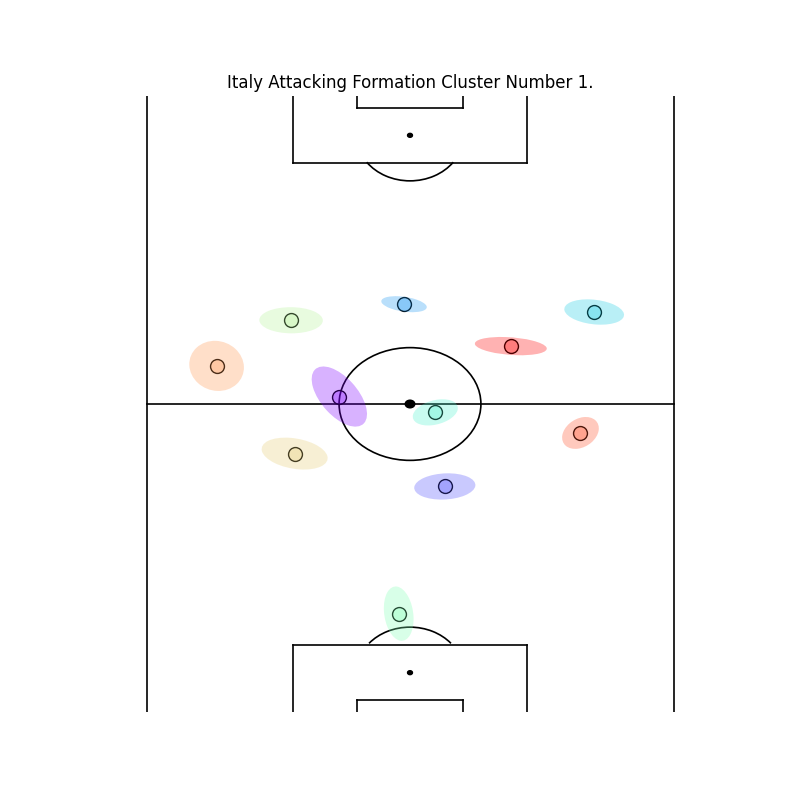
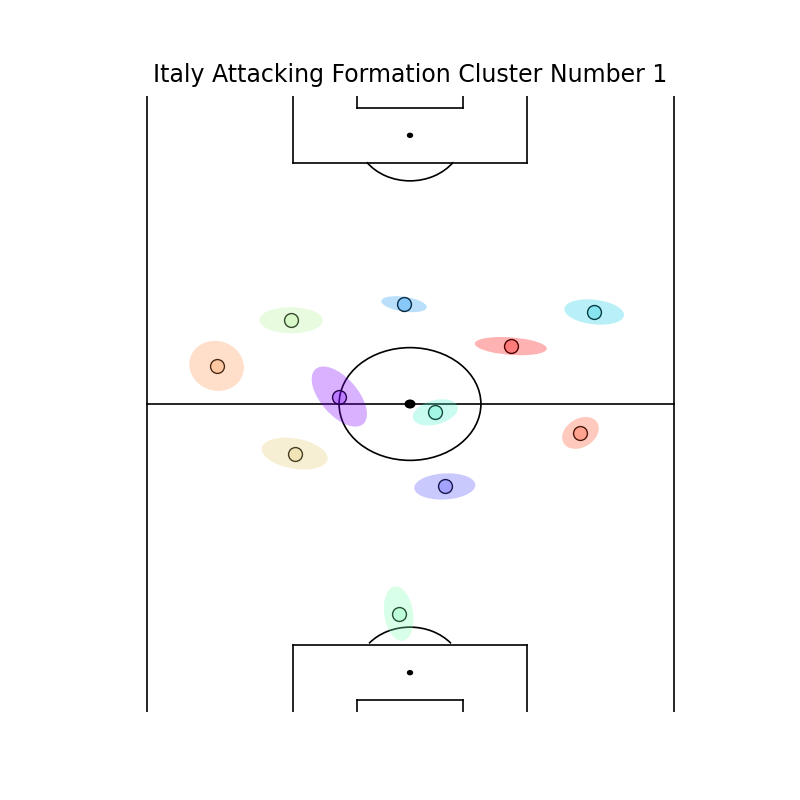
small adjustment to formation clusters

Changed region(s): [[0.1875, 0.0625, 0.8125, 0.125]]

diff --git a/fomation_clusters/main.py b/fomation_clusters/main.py
@@ -128,7 +128,7 @@ if __name__ == '__main__':
             
             for i in range(len(clusters_idx[cluster_index])):
                 plot_cluster(np.array(formation_clusters_ordered[cluster_index][i]), fig, ax, True)
-            plt.title(get_fig_title(key, cluster_index+1))
+            plt.title(get_fig_title(key, cluster_index+1), pad=10, fontsize = 17)
             plt.savefig(f"assets/formation_clusters/points_{key}_Cluster_{cluster_index + 1}", facecolor='white', transparent=False)
             # plt.show()
 
@@ -136,7 +136,7 @@ if __name__ == '__main__':
             # print('----------')
             # players = active_players[f'team{clustering_name[0]}_{clustering_name[1:]}_{i+1}']
             plot_formation_cluster_compact([means_cluster[i], cov_cluster[i]])
-            plt.title(get_fig_title(key, i+1))
+            plt.title(get_fig_title(key, i+1), pad=10, fontsize = 17)
             plt.savefig(f"assets/formation_clusters/coloredellipse_{key}_Cluster_{i+ 1}.png", facecolor='white', transparent=False)
             # print(f"{key} Cluster with index {i+1}")
             # plt.show()

diff --git a/fomation_clusters/source_plotting.py b/fomation_clusters/source_plotting.py
@@ -198,11 +198,11 @@ def plot_formation_cluster_compact(formation, coords_transformation = True):
 # very specific to our match, change if necessary
 def get_fig_title(key: str, clusters_idx: int):
     if '_1_' in key and 'defensive' in key: 
-        return f'Italy Defensive Formation Cluster Number {clusters_idx}.'
+        return f'Italy Defensive Formation Cluster Number {clusters_idx}'
     elif '_1_' in key and 'offensive' in key:
-        return f'Italy Attacking Formation Cluster Number {clusters_idx}.'
+        return f'Italy Attacking Formation Cluster Number {clusters_idx}'
     elif '_2_' in key and 'defensive' in key:
-        return f'Wales Defensive Formation Cluster Number {clusters_idx}.'
+        return f'Wales Defensive Formation Cluster Number {clusters_idx}'
     elif '_2_' in key and 'offensive' in key:
-        return f'Wales Attacking Formation Cluster Number {clusters_idx}.'
+        return f'Wales Attacking Formation Cluster Number {clusters_idx}'
     else: ValueError('Invalid Key or Index')
